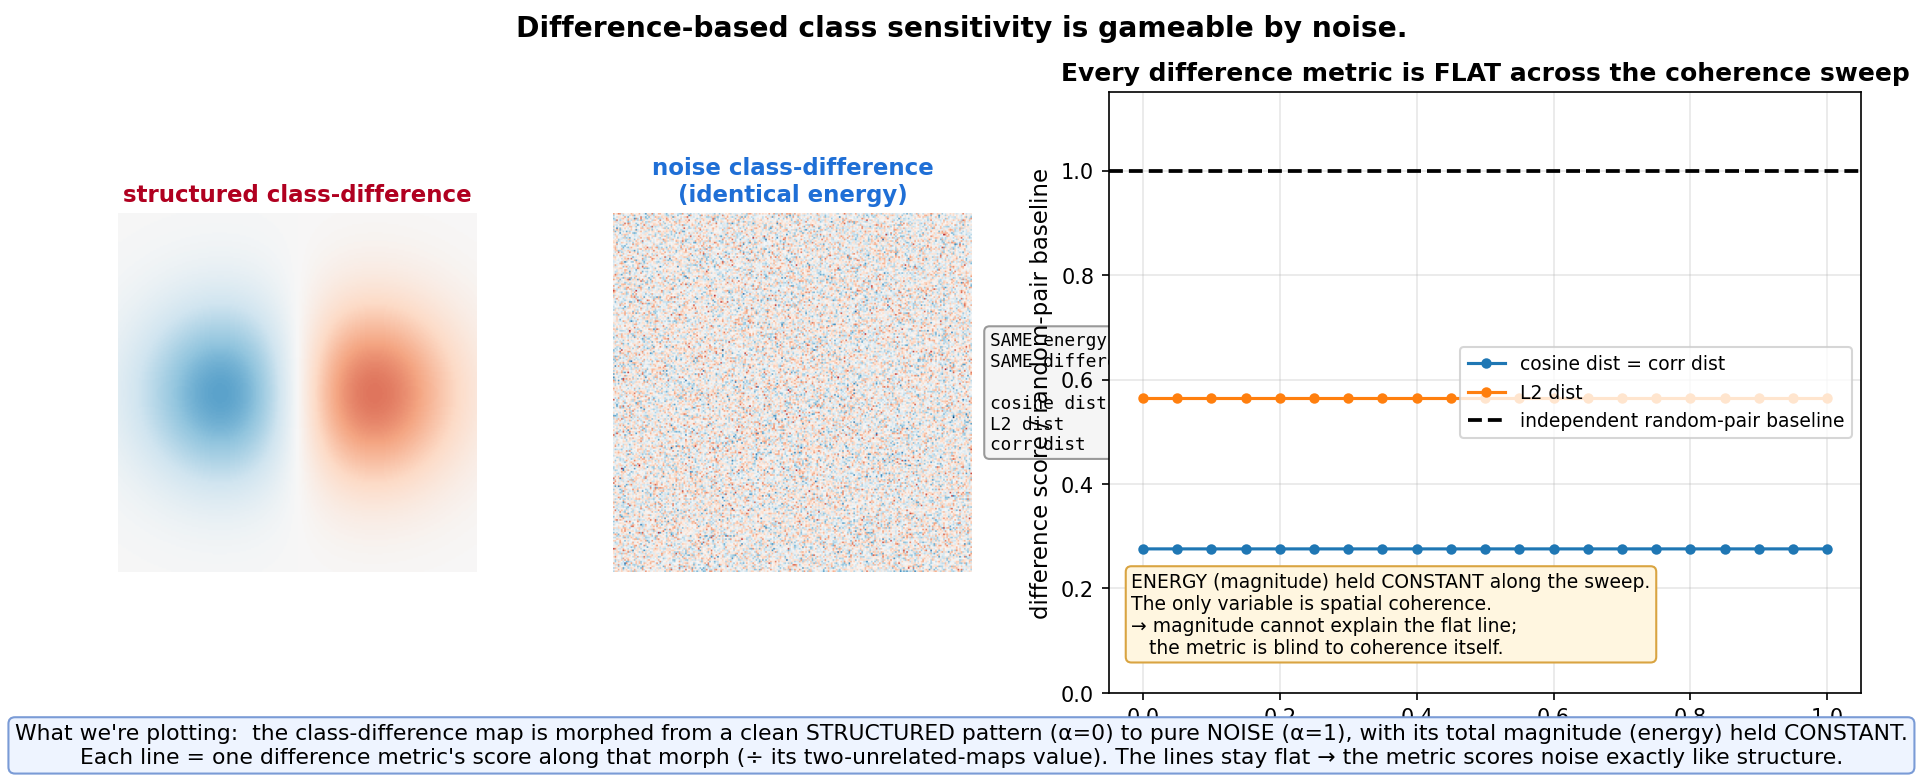
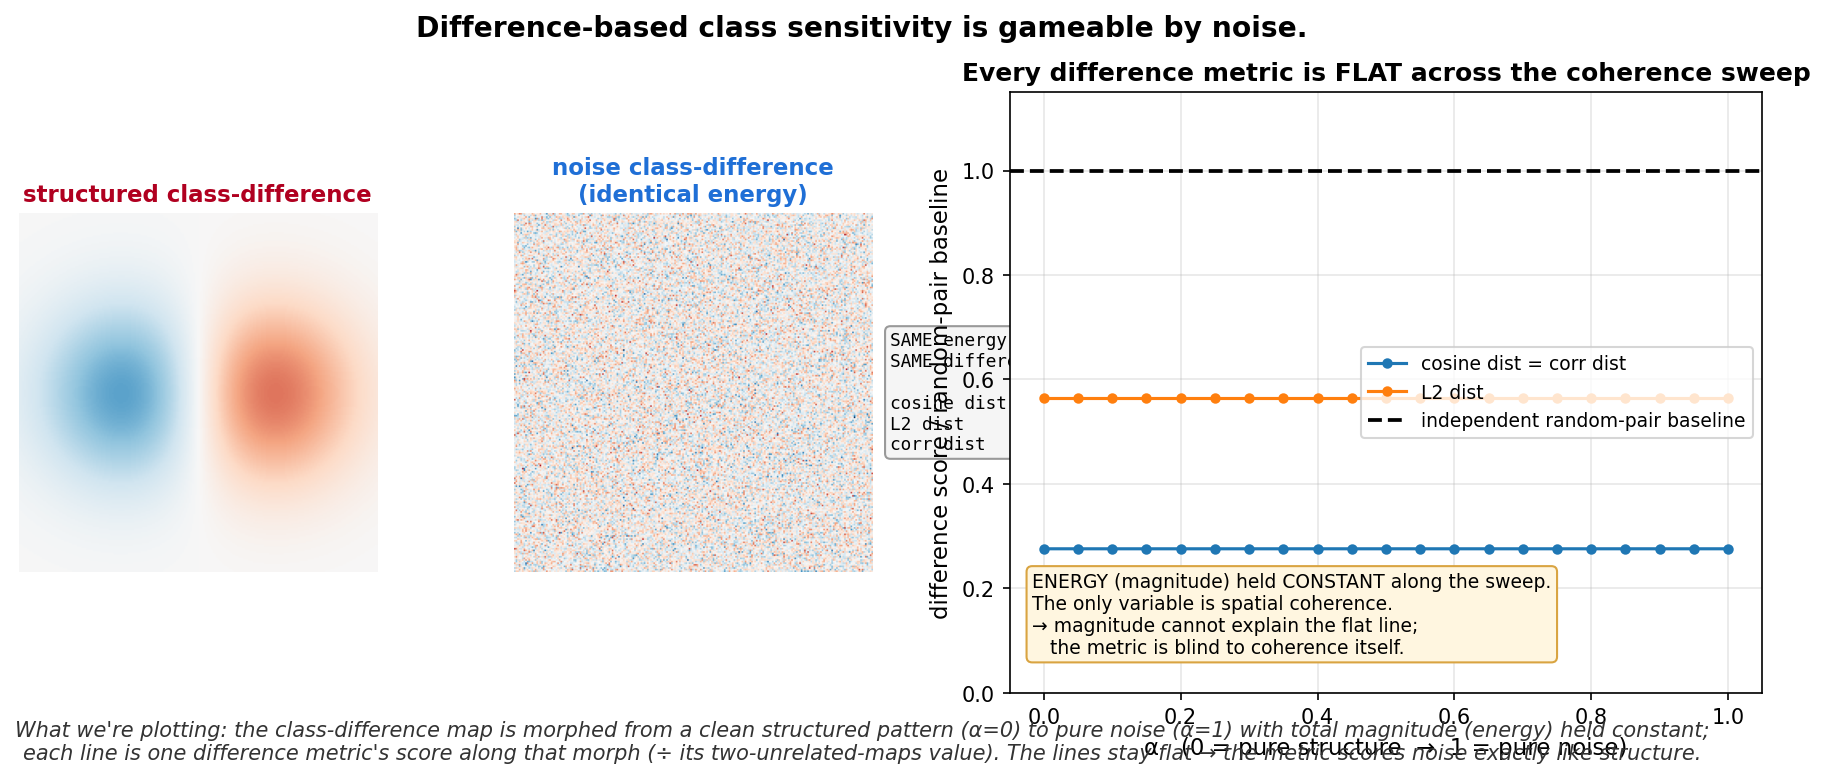
Make "what we're plotting" a plain subcaption (drop highlighted box)

diff --git a/infocube-main/diff_metric_blindness.py b/infocube-main/diff_metric_blindness.py
@@ -106,13 +106,11 @@ axs.text(0.03, 0.06,
          transform=axs.transAxes, va='bottom', ha='left', fontsize=9,
          bbox=dict(boxstyle='round', fc='#fff6e0', ec='#d9a441'))
 plt.suptitle('Difference-based class sensitivity is gameable by noise.', fontsize=13.5, fontweight='bold')
-fig.text(0.5, 0.015,
-         "What we're plotting:  the class-difference map is morphed from a clean STRUCTURED pattern (α=0) to pure NOISE (α=1), "
-         "with its total magnitude (energy) held CONSTANT.\n"
-         "Each line = one difference metric's score along that morph (÷ its two-unrelated-maps value). "
-         "The lines stay flat → the metric scores noise exactly like structure.",
-         ha='center', va='bottom', fontsize=10.5,
-         bbox=dict(boxstyle='round', fc='#eef4ff', ec='#7a9bd6'))
+fig.text(0.5, 0.02,
+         "What we're plotting: the class-difference map is morphed from a clean structured pattern (α=0) to pure noise (α=1) "
+         "with total magnitude (energy) held constant;\neach line is one difference metric's score along that morph "
+         "(÷ its two-unrelated-maps value). The lines stay flat → the metric scores noise exactly like structure.",
+         ha='center', va='bottom', fontsize=10, style='italic', color='#333')
 plt.tight_layout(rect=[0,0.085,1,0.94]); out='cs_viz_outputs/diff_metric_blindness.png'
 plt.savefig(out, dpi=150, bbox_inches='tight'); plt.close()
 flat = max(abs(np.array(v)[-1]-np.array(v)[0])/(rp[k]+EPS) for k,v in curves.items())
@@ -140,12 +138,12 @@ axs2.set_ylabel('metric score  (normalized to [0,1])', fontsize=11); axs2.set_yl
 axs2.set_title('Coherence difference collapses on noise; difference metrics stay flat', fontsize=12, fontweight='bold')
 axs2.grid(alpha=0.3); axs2.legend(fontsize=9, loc='center left')
 fig2.suptitle('A coherence-difference metric is not gameable by noise.', fontsize=13.5, fontweight='bold')
-fig2.text(0.5, 0.015,
-          "What we're plotting:  the SAME morph (structure → noise, constant energy).  "
-          "Green line = coherence difference — it measures how spatially coherent the class-difference is, so it "
-          "falls from high (structure) to ~0 (noise).\nThe faint difference-metric lines stay flat. "
+fig2.text(0.5, 0.02,
+          "What we're plotting: the same morph (structure → noise, constant energy). "
+          "The green line (coherence difference) measures how spatially coherent the class-difference is, so it falls "
+          "from high (structure) to ~0 (noise);\nthe difference-metric lines stay flat. "
           "Only the coherence-difference metric tells structure and noise apart.",
-          ha='center', va='bottom', fontsize=10.5, bbox=dict(boxstyle='round', fc='#eafaea', ec='#4c9a4c'))
+          ha='center', va='bottom', fontsize=10, style='italic', color='#333')
 plt.tight_layout(rect=[0,0.085,1,0.94]); out2='cs_viz_outputs/coherence_difference_payoff.png'
 plt.savefig(out2, dpi=150, bbox_inches='tight'); plt.close()
 print(f'coherence difference: structured={cd_coh:.3f}  noise={cd_noise:.3f}  (difference metrics saw them as identical)')
